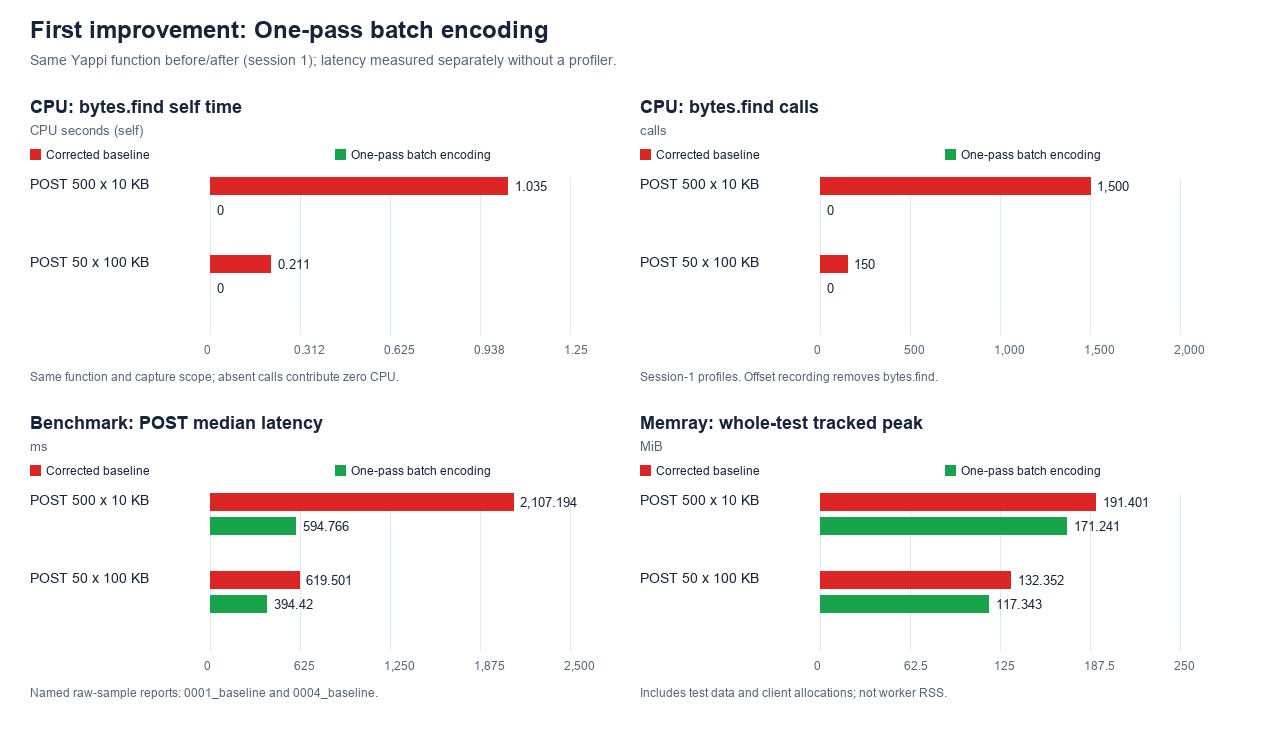
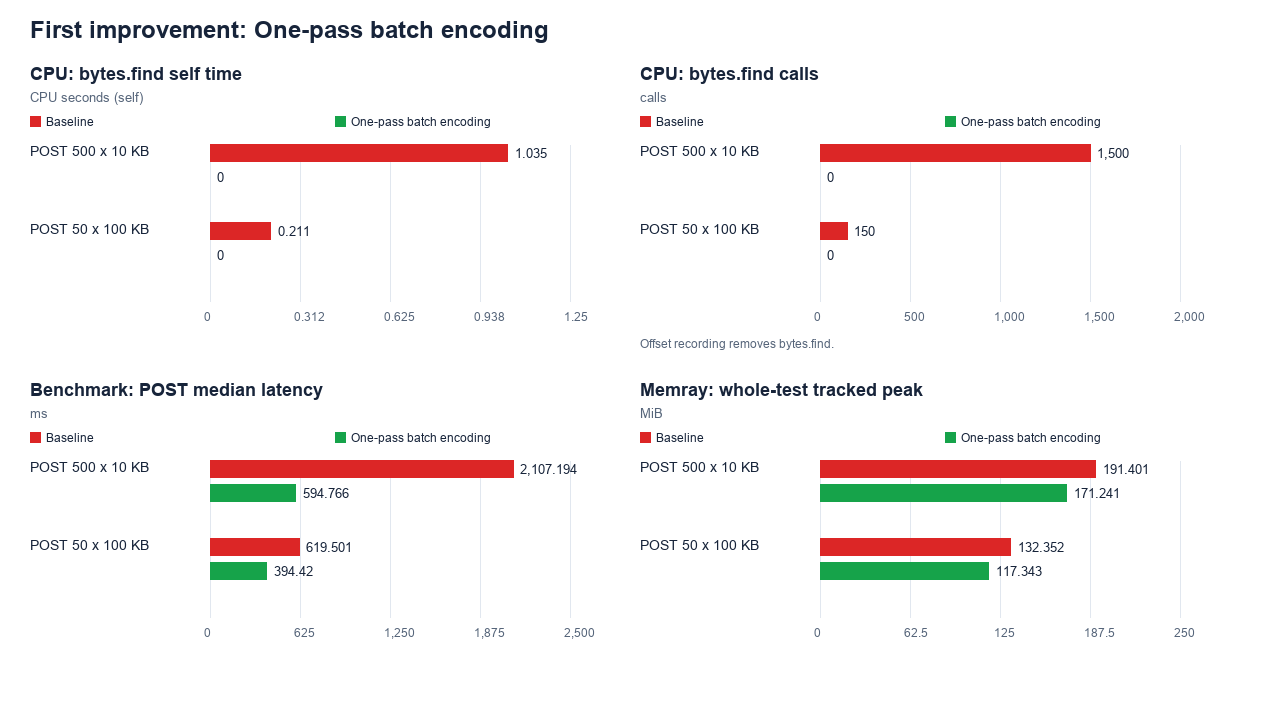
docs: simplify optimization chart labels and captions

diff --git a/OPTIMIZATIONS.md b/OPTIMIZATIONS.md
@@ -213,7 +213,7 @@ decode too early.
 
 **Matched CPU result.** POST-50 `raw_decode` calls fell from 123 to 58,
 self CPU from 0.080644 to 0.073476 s, and JSON-error constructions from 66 to 1.
-These are session-1, all-phase profiles in both versions, including SDK decoding.
+Both CPU profiles include all phases, including SDK decoding.
 POST-500 call counts did not improve. Separately, POST-50 median latency fell
 14.9% against its fresh control; POST-500 median **rose 4.7%**. Tracked peaks
 stayed effectively unchanged.
